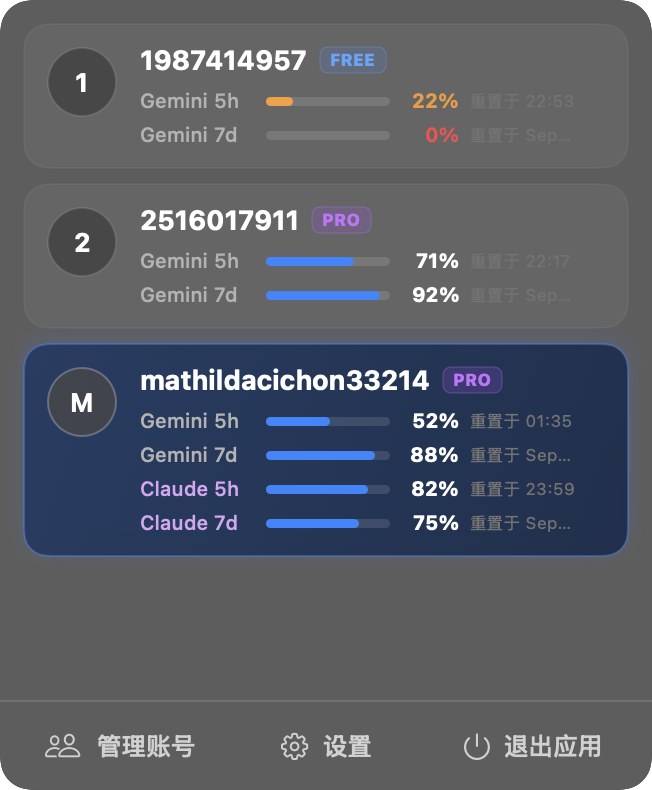
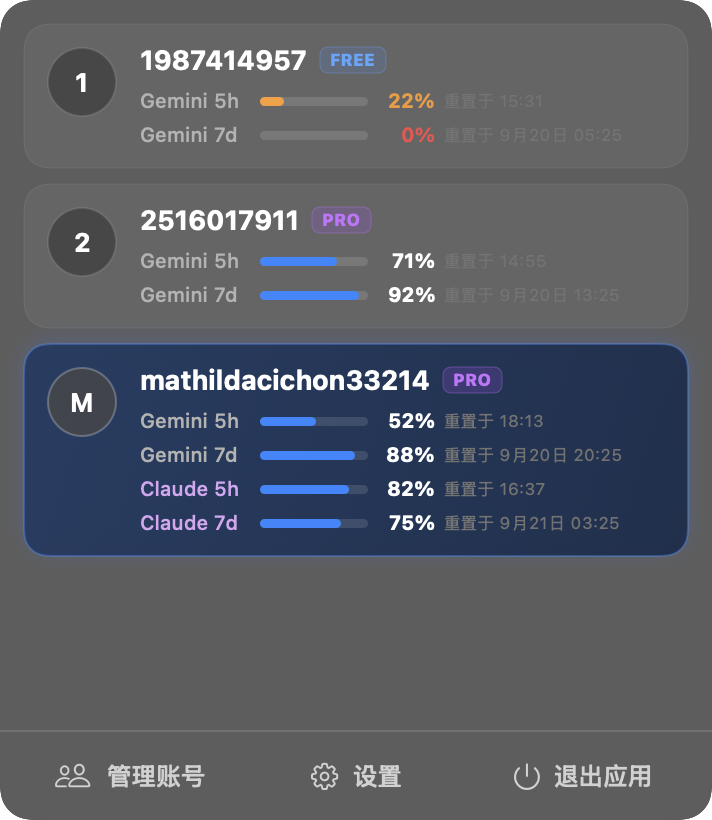
release: v1.2.1 修复重置时间中文与阿拉伯数字本地化排版，彻底消除文字截断

diff --git a/Sources/AntigravitySwitcher/Views/AccountCardView.swift b/Sources/AntigravitySwitcher/Views/AccountCardView.swift
@@ -55,13 +55,13 @@ struct AccountCardView: View {
                         VStack(alignment: .leading, spacing: 4) {
                             // Gemini 模型组
                             if let primary = info.primary {
-                                HStack(spacing: 5) {
+                                HStack(spacing: 4) {
                                     Text("Gemini 5h")
                                         .font(.system(size: 10, weight: .medium))
                                         .foregroundColor(Color(white: 0.7))
-                                        .frame(width: 58, alignment: .leading)
+                                        .frame(width: 56, alignment: .leading)
 
-                                    QuotaProgressBar(remaining: primary.remaining, width: 62)
+                                    QuotaProgressBar(remaining: primary.remaining, width: 54)
 
                                     Text("\(primary.remaining)%")
                                         .font(.system(size: 10, weight: .bold))
@@ -73,18 +73,19 @@ struct AccountCardView: View {
                                             .font(.system(size: 8.5))
                                             .foregroundColor(Color(white: 0.45))
                                             .lineLimit(1)
+                                            .help(formatFullResetTime(reset))
                                     }
                                 }
                             }
 
                             if let secondary = info.secondary {
-                                HStack(spacing: 5) {
+                                HStack(spacing: 4) {
                                     Text("Gemini 7d")
                                         .font(.system(size: 10, weight: .medium))
                                         .foregroundColor(Color(white: 0.7))
-                                        .frame(width: 58, alignment: .leading)
+                                        .frame(width: 56, alignment: .leading)
 
-                                    QuotaProgressBar(remaining: secondary.remaining, width: 62)
+                                    QuotaProgressBar(remaining: secondary.remaining, width: 54)
 
                                     Text("\(secondary.remaining)%")
                                         .font(.system(size: 10, weight: .bold))
@@ -96,19 +97,20 @@ struct AccountCardView: View {
                                             .font(.system(size: 8.5))
                                             .foregroundColor(Color(white: 0.45))
                                             .lineLimit(1)
+                                            .help(formatFullResetTime(reset))
                                     }
                                 }
                             }
 
                             // Claude / 3P 模型组（如果有且不同于主模型）
                             if let cp = info.claudePrimary {
-                                HStack(spacing: 5) {
+                                HStack(spacing: 4) {
                                     Text("Claude 5h")
                                         .font(.system(size: 10, weight: .medium))
                                         .foregroundColor(Color(red: 0.85, green: 0.65, blue: 0.95))
-                                        .frame(width: 58, alignment: .leading)
+                                        .frame(width: 56, alignment: .leading)
 
-                                    QuotaProgressBar(remaining: cp.remaining, width: 62)
+                                    QuotaProgressBar(remaining: cp.remaining, width: 54)
 
                                     Text("\(cp.remaining)%")
                                         .font(.system(size: 10, weight: .bold))
@@ -120,18 +122,19 @@ struct AccountCardView: View {
                                             .font(.system(size: 8.5))
                                             .foregroundColor(Color(white: 0.45))
                                             .lineLimit(1)
+                                            .help(formatFullResetTime(reset))
                                     }
                                 }
                             }
 
                             if let cs = info.claudeSecondary {
-                                HStack(spacing: 5) {
+                                HStack(spacing: 4) {
                                     Text("Claude 7d")
                                         .font(.system(size: 10, weight: .medium))
                                         .foregroundColor(Color(red: 0.85, green: 0.65, blue: 0.95))
-                                        .frame(width: 58, alignment: .leading)
+                                        .frame(width: 56, alignment: .leading)
 
-                                    QuotaProgressBar(remaining: cs.remaining, width: 62)
+                                    QuotaProgressBar(remaining: cs.remaining, width: 54)
 
                                     Text("\(cs.remaining)%")
                                         .font(.system(size: 10, weight: .bold))
@@ -143,6 +146,7 @@ struct AccountCardView: View {
                                             .font(.system(size: 8.5))
                                             .foregroundColor(Color(white: 0.45))
                                             .lineLimit(1)
+                                            .help(formatFullResetTime(reset))
                                     }
                                 }
                             }

diff --git a/Sources/AntigravitySwitcher/Views/Components.swift b/Sources/AntigravitySwitcher/Views/Components.swift
@@ -77,22 +77,38 @@ struct QuotaProgressBar: View {
     }
 }
 
-// MARK: - 时间格式化
+// MARK: - 时间格式化 (中文与阿拉伯数字)
 func formatResetTime(_ date: Date?) -> String {
     guard let d = date else { return "" }
     let now = Date()
     let cal = Calendar.current
 
     let df = DateFormatter()
-    df.locale = Locale(identifier: "en_US_POSIX")
+    df.locale = Locale(identifier: "zh_CN")
 
-    // 如果是今天 24 小时以内
-    if cal.isDateInToday(d) || (d.timeIntervalSince(now) < 18 * 3600 && d.timeIntervalSince(now) > 0) {
+    if cal.isDateInToday(d) {
         df.dateFormat = "HH:mm"
         return "重置于 \(df.string(from: d))"
+    } else if cal.isDateInTomorrow(d) {
+        df.dateFormat = "HH:mm"
+        return "重置于明天 \(df.string(from: d))"
     } else {
-        // 例如 Sep 19 at 21:46
-        df.dateFormat = "MMM d 'at' HH:mm"
+        // 中文和阿拉伯数字：例如 重置于 9月24日 15:36
+        let thisYear = cal.component(.year, from: now)
+        let targetYear = cal.component(.year, from: d)
+        if thisYear == targetYear {
+            df.dateFormat = "M月d日 HH:mm"
+        } else {
+            df.dateFormat = "yyyy年M月d日 HH:mm"
+        }
         return "重置于 \(df.string(from: d))"
     }
+}
+
+func formatFullResetTime(_ date: Date?) -> String {
+    guard let d = date else { return "" }
+    let df = DateFormatter()
+    df.locale = Locale(identifier: "zh_CN")
+    df.dateFormat = "yyyy年M月d日 HH:mm:ss"
+    return "预计重置时间: \(df.string(from: d))"
 }

diff --git a/Sources/render_screenshots.swift b/Sources/render_screenshots.swift
@@ -111,15 +111,15 @@ struct ScreenshotGenerator {
 
         // 1. 主页面
         state.currentPage = .main
-        renderView(PopoverRootView(), size: NSSize(width: 326, height: 395), filename: "screenshot-main.png")
+        renderView(PopoverRootView(), size: NSSize(width: 356, height: 410), filename: "screenshot-main.png")
 
         // 2. 管理账号页面 (列表)
         state.currentPage = .manageAccounts
-        renderView(PopoverRootView(), size: NSSize(width: 326, height: 320), filename: "screenshot-manage.png")
+        renderView(PopoverRootView(), size: NSSize(width: 356, height: 330), filename: "screenshot-manage.png")
 
         // 3. 设置页面
         state.currentPage = .settings
-        renderView(PopoverRootView(), size: NSSize(width: 326, height: 430), filename: "screenshot-settings.png")
+        renderView(PopoverRootView(), size: NSSize(width: 356, height: 440), filename: "screenshot-settings.png")
 
         print("All screenshots generated successfully!")
     }

diff --git a/Sources/AntigravitySwitcher/AppState.swift b/Sources/AntigravitySwitcher/AppState.swift
@@ -62,7 +62,7 @@ class AppState: ObservableObject {
                   let json = try? JSONSerialization.jsonObject(with: data) as? [String: Any],
                   let tagName = json["tag_name"] as? String else { return }
             let cleanTag = tagName.replacingOccurrences(of: "v", with: "")
-            let current = "1.2.0"
+            let current = "1.2.1"
             if cleanTag.compare(current, options: .numeric) == .orderedDescending {
                 DispatchQueue.main.async {
                     self?.bannerText = "发现新版本 \(tagName)"

diff --git a/Sources/AntigravitySwitcher/main.swift b/Sources/AntigravitySwitcher/main.swift
@@ -55,7 +55,7 @@ class AppDelegate: NSObject, NSApplicationDelegate, NSPopoverDelegate {
 
     private func setupPopover() {
         popover = NSPopover()
-        popover.contentSize = NSSize(width: 336, height: 440)
+        popover.contentSize = NSSize(width: 356, height: 460)
         popover.behavior = .transient
         popover.animates = true
         popover.delegate = self

diff --git a/Sources/AntigravitySwitcher/Views/SettingsView.swift b/Sources/AntigravitySwitcher/Views/SettingsView.swift
@@ -244,7 +244,7 @@ struct SettingsView: View {
             }
             .frame(maxHeight: 380)
         }
-        .frame(width: 326)
+        .frame(width: 356)
         .onAppear {
             if #available(macOS 13.0, *) {
                 launchAtLogin = (SMAppService.mainApp.status == .enabled)

diff --git a/Sources/AntigravitySwitcher/Views/ManageAccountsView.swift b/Sources/AntigravitySwitcher/Views/ManageAccountsView.swift
@@ -77,7 +77,7 @@ struct ManageAccountsView: View {
             }
             .frame(maxHeight: 380)
         }
-        .frame(width: 326)
+        .frame(width: 356)
         .alert(isPresented: $showDeleteConfirm) {
             Alert(
                 title: Text("确认删除账号？"),

diff --git a/Sources/AntigravitySwitcher/Views/PopoverRootView.swift b/Sources/AntigravitySwitcher/Views/PopoverRootView.swift
@@ -34,7 +34,7 @@ struct PopoverRootView: View {
             }
             .environmentObject(appState)
         }
-        .frame(width: 326)
+        .frame(width: 356)
         .preferredColorScheme(.dark)
     }
 }

diff --git a/Sources/AntigravitySwitcher/Views/MainPageView.swift b/Sources/AntigravitySwitcher/Views/MainPageView.swift
@@ -118,7 +118,7 @@ struct MainPageView: View {
             .padding(.horizontal, 8)
             .padding(.vertical, 10)
         }
-        .frame(width: 326)
+        .frame(width: 356)
     }
 }
 
